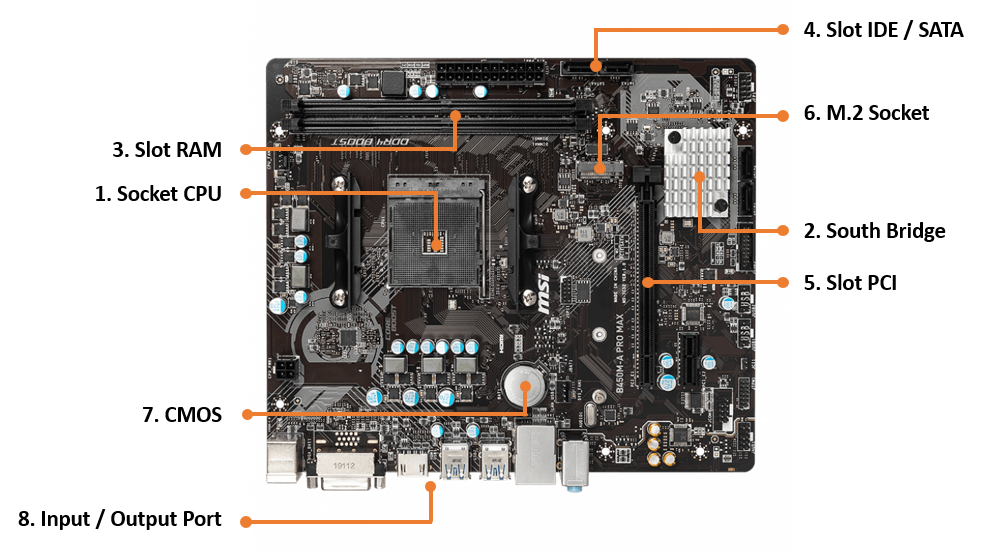
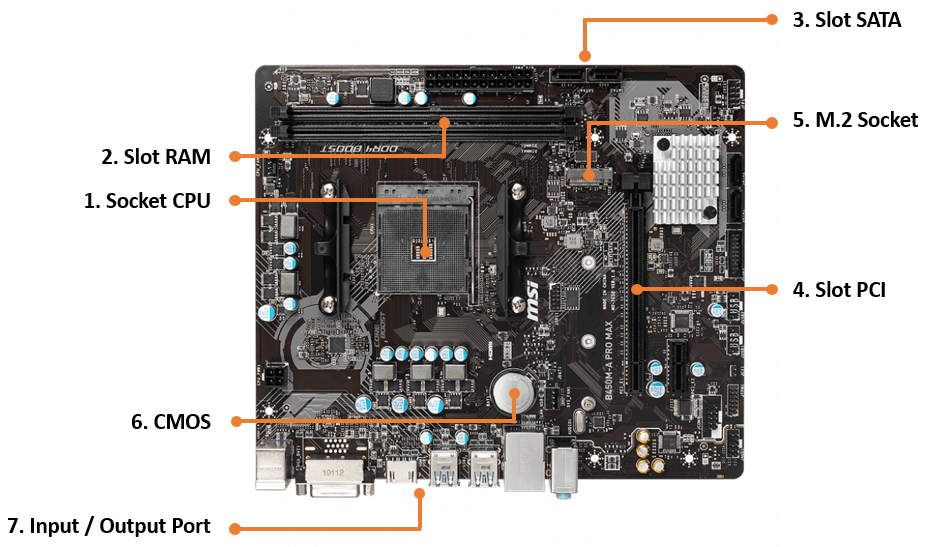
revisi materi

diff --git a/css/motherboard.css b/css/motherboard.css
@@ -67,19 +67,19 @@
 }
 .motherboard .zigzag .zigzag-item.zigzagitem-right .zigzagitem-content{
 	width: 50%;
-	margin: 0 25px 0 0;
+	margin: 0 50px 0 0;
 	max-width: 350px;	
 	justify-content: center;
 }
 .motherboard .zigzag .zigzag-item.zigzagitem-left .zigzagitem-content{
 	width: 50%;
-	margin: 0 0 0 25px;
+	margin: 0 0 0 50px;
 	max-width: 350px;
 	justify-content: center;
 }
 .motherboard .zigzag.fullpage .zigzag-item.zigzagitem-left .zigzagitem-content{
 	width: 70%;
-	margin: 0 0 0 35px;
+	margin: 0 0 0 50px;
 	max-width: none !important;
 	justify-content: center;
 }
@@ -91,7 +91,7 @@
 	width: 50%;
 	display: flex;
 	height: 225px;
-	max-width: 350px;	
+	max-width: 200px;	
 }
 .motherboard .zigzag.fullpage .zigzag-item.zigzagitem-left .zigzagitem-graphic{
 	width: 30%;

diff --git a/belajar/3motherboard.php b/belajar/3motherboard.php
@@ -169,13 +169,13 @@
 								<p class="materi-content-text">
 									<b>Di Laptop: </b>Jika Anda membuka penutup bawah laptop, Anda akan melihat papan PCB besar yang merupakan motherboard.
 								</p>
-								<h4 class="materi-subab-tittle">
+								<!-- <h4 class="materi-subab-tittle">
 									Jenis-jenis Motherboard
 								</h4>
 								<p class="materi-content-text">
 									Berikut ini beberapa jenis motherboard yang banyak digunakan pada PC dan laptop saat ini:
-								</p>
-								<div class="zigzag">
+								</p> -->
+								<!-- <div class="zigzag">
 									<div class="zigzag-item zigzagitem-left">
 										<div class="zigzagitem-graphic">
 											<img class="zigzag-img" src="../images/motherboard/ATX-Motherboard.jpg" alt=""/>
@@ -231,7 +231,7 @@
 											<img class="zigzag-img" src="../images/motherboard/Motherboard-E-ATX-Asus-ROG.jpg" alt=""/>
 										</div>
 									</div>
-								</div>
+								</div> -->
 								
 								<!-- <div class="list-komponen mt-4">
 								<ul class="list-komponen-item">
@@ -404,8 +404,9 @@
 							</div>
 						</div>
 					</div>
+
 					<div class="row">
-						<div class="col-lg-12 col-sm-12">
+						<div class="col-lg-10 col-sm-12">
 							<h4 class="materi-subab-tittle">
 								Komponen Motherboard
 							</h4>
@@ -431,8 +432,8 @@
 									<div class="zigzag-item zigzagitem-left">
 										<div class="zigzagitem-graphic">
 											
-												<img class="zigzag-img" src="../images/motherboard/socket-cpu.png" alt=""/>
-											
+												<img class="zigzag-img" src="../images/motherboard/Screenshot 2022-10-31 230906.png" alt=""/>
+												
 										</div>
 										<div class="zigzagitem-content">
 											<h5 class="materi-point-tittle">
@@ -474,7 +475,7 @@
 										</div> -->
 									<!-- </div> -->
 									<hr>
-									<div class="zigzag-item zigzagitem-left">
+									<!-- <div class="zigzag-item zigzagitem-left">
 										<div class="zigzagitem-graphic">
 											<img class="zigzag-img" src="../images/motherboard/south-bridge.png" alt=""/>
 										</div>
@@ -487,14 +488,14 @@
 											</p>
 										</div>
 									</div>
-									<hr>
+									<hr> -->
 									<div class="zigzag-item zigzagitem-left">
 										<div class="zigzagitem-graphic">
-											<img class="zigzag-img" src="../images/motherboard/slot-ram.png" alt=""/>
+											<img class="zigzag-img" src="../images/motherboard/business-storage-8-bay-nas-operation-14-568x564.png" alt=""/>
 										</div>
 										<div class="zigzagitem-content">
 											<h5 class="materi-point-tittle">
-												<label>3.</label>Slot RAM (Random Access Memory)
+												<label>2.</label>Slot RAM (Random Access Memory)
 											</h5>
 											<p class="materi-content-text">
 												Sebagai tempat menyisipkan atau meletakkan RAM. Bentuk slot memory memanjang, sesuai dengan bentuk RAM itu sendiri. 
@@ -511,32 +512,27 @@
 									<hr>
 									<div class="zigzag-item zigzagitem-left">
 										<div class="zigzagitem-graphic">
-											<img class="zigzag-img" src="../images/motherboard/slot-ide.png" alt=""/>
+											<img class="zigzag-img" src="../images/motherboard/H01920788a5a04613a88ce264c76bc9bes.jpg" alt=""/>
 										</div>
 										<div class="zigzagitem-content">
 											<h5 class="materi-point-tittle">
-												<label>4.</label>Slot IDE dan Slot SATA
+												<label>3.</label>Slot SATA
 											</h5>
-											<p class="materi-content-text">
-												Antara Slot IDE dan Slot SATA memiliki bentuk yang berbeda, namun tetap memiliki fungsi yang sama.
-											</p>
-											<span id="dots3">...</span>
-											<span id="more3">
 												<p class="materi-content-text mt-2">
-													Yakni digunakan sebagai penghubung antara Hardisk atau CD-ROM ke motherboard.
+													Slot SATA digunakan sebagai penghubung antara Hardisk atau ke motherboard.
 												</p>
 											</span>
-											<button onclick="myFunction3()" id="myBtn3" class="badge badge-secondary">Selengkapnya</button>
+											
 										</div>
 									</div>
 									<hr>
 									<div class="zigzag-item zigzagitem-left">
 										<div class="zigzagitem-graphic">
-											<img class="zigzag-img" src="../images/motherboard/slot-pci.png" alt=""/>
+											<img class="zigzag-img" src="../images/motherboard/images-pci.jfif" alt=""/>
 										</div>
 										<div class="zigzagitem-content">
 											<h5 class="materi-point-tittle">
-												<label>5.</label>Slot PCI 
+												<label>4.</label>Slot PCI 
 											</h5>
 											<p class="materi-content-text">
 												Slot Peripheral Component Interconnect atau PCI digunakan untuk menambahkan komponen lain dari PC.  
@@ -556,11 +552,11 @@
 									<hr>
 									<div class="zigzag-item zigzagitem-left">
 										<div class="zigzagitem-graphic">
-											<img class="zigzag-img" src="../images/motherboard/m2-socket.png" alt=""/>
+											<img class="zigzag-img" src="../images/motherboard/41Uspj9m1oL._AC_SY580_.jpg" alt=""/>
 										</div>
 										<div class="zigzagitem-content">
 											<h5 class="materi-point-tittle">
-												<label>6.</label>M.2 Socket
+												<label>5.</label>M.2 Socket
 											</h5>
 
 											<p class="materi-content-text">
@@ -575,11 +571,11 @@
 									<hr>
 									<div class="zigzag-item zigzagitem-left">
 										<div class="zigzagitem-graphic">
-											<img class="zigzag-img" src="../images/motherboard/cmos.png" alt=""/>
+											<img class="zigzag-img" src="../images/motherboard/btr.jpg" alt=""/>
 										</div>
 										<div class="zigzagitem-content">
 											<h5 class="materi-point-tittle">
-												<label>7.</label>CMOS 
+												<label>6.</label>CMOS 
 											</h5>
 											<p class="materi-content-text">
 												Tempat pada motherboard yang berisi baterai kecil. Dengan baterai ini, 
@@ -601,7 +597,7 @@
 										</div>
 										<div class="zigzagitem-content">
 											<h5 class="materi-point-tittle">
-												<label>8.</label>Input/Output Port
+												<label>7.</label>Input/Output Port
 											</h5>
 
 											<p class="materi-content-text">
@@ -614,7 +610,179 @@
 								</div>
 						</div>
 					</div>
-					
+					<div class="row">
+						<div class="col-lg-9 col-sm-12">
+							<h4 class="materi-subab-tittle">
+								Cara Memilih Motherboard
+							</h4>
+							<p class="materi-content-text">
+								Memilih motherboard adalah bagian sangat penting saat merakit PC, pastikan kalian terlebih dahulu memahami spesifikasi teknis dari motherboard yang akan dipilih. 
+							</p>
+							<p class="materi-content-text">
+								Berikut hal-hal yang perlu diperhatikan dalam pemilihan sebuah motherboard.
+							</p>
+							<h5 class="materi-subab-tittle">
+								#1 Tentukan Chipset / Processor yg digunakan
+							</h5>
+							<p class="materi-content-text">
+								Entah berencana ingin memilih chipset AMD atau Intel, pastikan chipset tersebut didukung oleh soket pada motherboard.
+							</p>
+							<p class="materi-content-text">
+								Karena, chipset yang akan digunakan nanti harus dipasang dalam soket ini. 
+							</p>
+							<p class="materi-content-text">
+								Jika, chipset yang akan digunakan tidak cocok dengan soket dalam motherboard, sudah pasti sistem komputer tidak akan dapat dihidupkan.
+							</p>
+							<p class="materi-content-text">
+								Perlu kalian ketahui juga, suatu soket processor hanya dapat digunakan untuk satu generasi processor. 
+							</p>
+							<p class="materi-content-text">
+								Oleh karena itu, saat memilih motherboard pastikan punya soket yang sesuai atau kompatibel dengan chipset yang akan dipasang.
+							</p>
+							<p class="materi-content-text">
+								Bagaimana cara mengetahui soket chipset yang dimiliki oleh motherboard? Mudah saja, tinggal cari di label spesifikasinya.
+							</p>
+							<p class="materi-content-text">
+								Biasanya ada di kardus paket penjualan, buku manual, brosur atau info di website resmi, dan bahkan dalam motherboardnya sendiri juga sudah tertulis label jenis soket yang tersedia.
+							</p>
+							<p class="materi-content-text">
+								Pilihan chipset yang sering digunakan:
+							</p>
+							<div class="zigzag">
+								<div class="zigzag-item zigzagitem-left">
+									<div class="zigzagitem-graphic">
+										<img class="zigzag-img" src="../images/motherboard/58568d224f6ae202fedf2720.png" alt=""/>
+									</div>
+									<div class="zigzagitem-content">
+										<h5>
+											Intel
+										</h5>
+										<p>	
+											Jenis processor yang dikembangkan oleh Intel Corporation, processor yang paling populer dan banyak digunakan pada laptop atau komputer.
+										</p>
+									</div>
+								</div>
+								<hr>
+								<div class="zigzag-item zigzagitem-right">
+									<div class="zigzagitem-content">
+										<h5>
+											Advance Micro Device (AMD)
+										</h5>
+										<p>	
+											AMD dikenal sebagai vendor terbesar yang memproduksi processor dengan kualitas yang sama baiknya dengan Intel namun dengan harga yang lebih terjangkau.
+										</p>
+									</div>
+									<div class="zigzagitem-graphic">
+										<img class="zigzag-img" src="../images/motherboard/731984.png" alt=""/>
+									</div>
+								</div>
+							</div>
+							<p class="materi-content-text">
+								Kedua chipset / processor di atas sama baiknya, ada plus dan minusnya. Tinggal sesuaikan kebutuhan dan budget yang dimiliki.
+							</p>
+							<h5 class="materi-point-tittle">
+								#2 Merk Motherboard terbaik?
+							</h5>
+							<p class="materi-content-text">
+								Ada banyak produsen/merk motherboard yang beredar di pasaran. Misalnya ASRock, ASUS, Gigabyte, MSI, Biostar, dan lainnya. Lalu, manakah merk motheboard yang terbaik?
+							</p>
+							<p class="materi-content-text">
+								Sebetulnya, tidak ada acuan khusus mengenai merk motherboard yang paling bagus atau terbaik. 
+							</p>
+							<p class="materi-content-text">
+								Semua merk atau brand motherboard pasti memiliki kelebihan dan kekurangan masing-masing. 
+							</p>
+							<p class="materi-content-text">
+								Setiap vendor akan selalu berusaha mengeluarkan varian produknya sesuai keinginan konsumen.
+							</p>
+							<p class="materi-content-text">
+								Tentukan motherboard yang spesifikasinya sesuai dengan kebutuhan dan budget kalian.
+							</p>
+							<h5 class="materi-point-tittle">
+								#Pastikan Ukurannya cocok dengan Case CPU
+							</h5>
+							<p class="materi-content-text">
+								Hal yang agak sepele tapi sebetulnya penting juga. Beberapa ukuran motherboard yang tersedia:
+							</p>
+						</div>
+					</div>
+					<div class="row">
+						<div class="col-lg-9 col-sm-12">
+							
+							<div class="materi-gambar ilustrasi">
+								<img src="../images/motherboard/jenismobo.jpg" class="img-fluid" alt="Responsive image"/>
+								<div class="gambar-tag-container">
+									<ul class="gambar-tag ilustrasi-tag">
+											
+										<li>
+											<i class="fa fa-camera" aria-hidden="true">&nbsp;&nbsp;Ukuran Motherboard</i> 
+										</li>
+									</ul>
+								</div>
+							</div>
+						</div>
+					</div>
+					<div class="row">
+						<div class="col-lg-9 col-sm-12">
+							<p class="materi-content-text">
+								Ukuran motherboard desktop yang umum di pasaran yaitu 30,5 cm x 24,4 cm (biasa dikenal ukuran ATX/standar) dan 24,4 cm x 24,4 cm (ukuran Micro ATX/M-ATX). 
+							</p>
+							<p class="materi-content-text">
+								Saat akan memilih motherboard, pastikan ukurannya sesuai dengan case yang ada.
+							</p>
+							<p class="materi-content-text">
+								Jika belum memiliki case, maka nanti case tersebut harus menyesuaikan dengan ukuran motherboard yang akan dipilih.
+							</p>
+							<h4 class="materi-subab-tittle">
+								Contoh Kasus
+							</h4>
+							<p class="materi-content-text">
+								Kalian ingin membangun komputer dengan processor intel core i5 10400 (generasi 10), processor ini memliki spesifikasi:
+							</p>
+							<ul class="materi-list">
+								<li>
+									<p class="content-text-nomargin">
+										6 core 12 thread (Hyper Threading)
+									</p>
+								</li>
+								<li>
+									<p class="content-text-nomargin">
+										Clockspeed 2.9 GHz (Turbo Boost hingga 4.3 GHz)
+									</p>
+								</li>
+								<li>
+									<p class="content-text-nomargin">
+										DDR4-2666
+									</p>
+								</li>
+								<li>
+									<p class="content-text-nomargin" style="font-weight: 600!important;">
+										Soket LGA 1200
+									</p>
+								</li>
+								<li>
+									<p class="content-text-nomargin">
+										IGP Inteh UHD Graphic 630
+									</p>
+								</li>
+							</ul>
+							<p class="materi-content-text">
+								Karena processor yang digunakan adalah intel i5 10400, jadi motherboard yang digunakan adalah motherboard khusus processor intel dengan soket LGA 1200
+							</p>
+							<div class="zigzag">
+								<div class="zigzag-item zigzagitem-right">
+									<div class="zigzagitem-content">
+										<p class="materi-content-text">
+											Contohnya seperti motherboard keluaran MSI dengan seri B460M berikut ini:
+										</p>
+									</div>
+									<div class="zigzagitem-graphic">
+										<img class="zigzag-img" src="../images/motherboard/Micro-ATX-Motherboard.jpg" alt=""/>
+									</div>
+								</div>
+							</div>
+						</div> 
+					</div>
 				</div>
 			</div>
 		</div>
